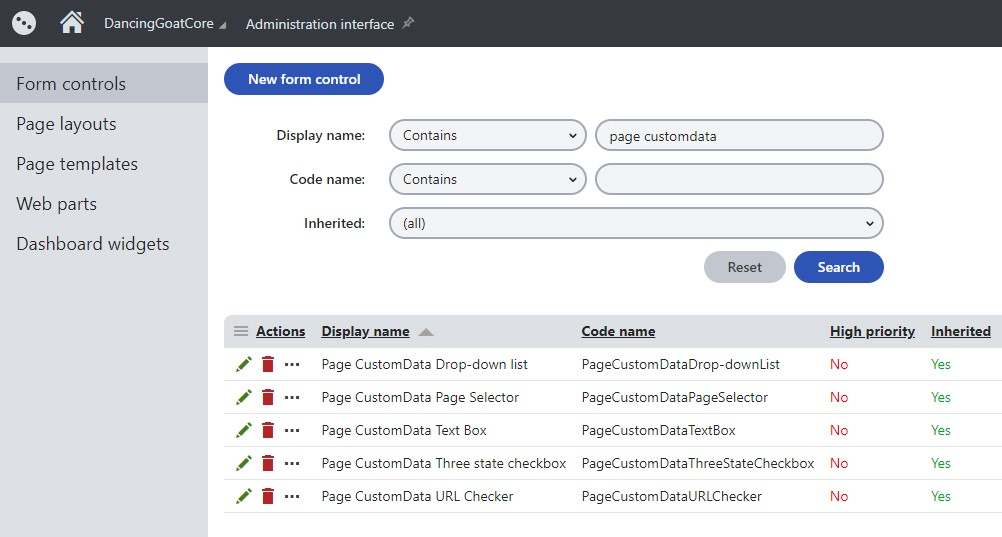
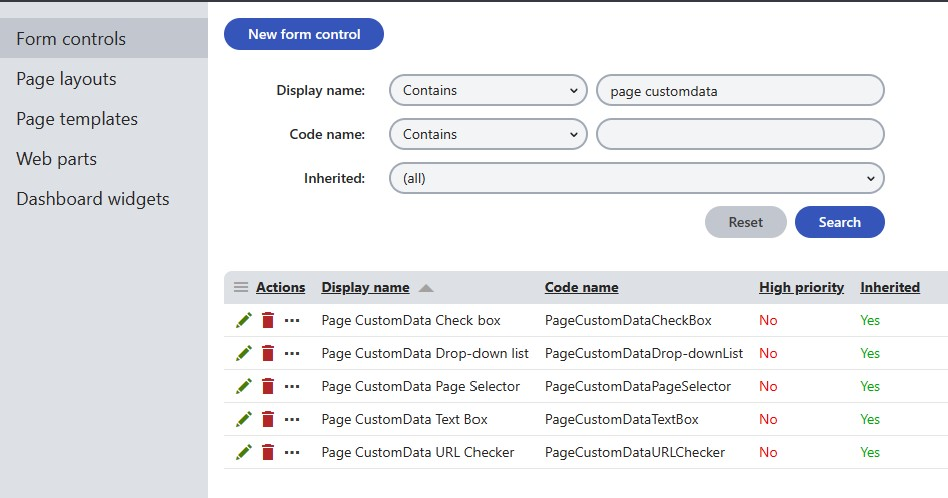
fix(lib): three state checkbox incompat w/ extender, add PageBuilderUtilities dep

diff --git a/tests/XperienceCommunity.PageNavigationRedirects.Tests/PageCustomDataRedirectResourceFilterTests.cs b/tests/XperienceCommunity.PageNavigationRedirects.Tests/PageCustomDataRedirectResourceFilterTests.cs
@@ -11,6 +11,7 @@ using Microsoft.AspNetCore.Mvc;
 using NSubstitute;
 using NUnit.Framework;
 using Tests.DocumentEngine;
+using XperienceCommunity.PageBuilderUtilities;
 
 namespace XperienceCommunity.PageNavigationRedirects.Tests
 {
@@ -37,9 +38,36 @@ namespace XperienceCommunity.PageNavigationRedirects.Tests
             var pageRetriever = Substitute.For<IPageRetriever>();
             var valuesRetriever = new PageNavigationRedirectsValuesRetriever(options);
 
-            var accessor = fixture.CreateHttpContextAccessWithPageBuilder(true);
+            var context = Substitute.For<IPageBuilderContext>();
+            context.IsEditMode.Returns(true);
 
-            var sut = new PageCustomDataRedirectResourceFilter(accessor, contextRetriever, urlRetriever, pageRetriever, valuesRetriever, options);
+            var sut = new PageCustomDataRedirectResourceFilter(context, contextRetriever, urlRetriever, pageRetriever, valuesRetriever, options);
+
+            var (executing, executed) = fixture.CreateFilterContexts();
+
+            await sut.OnResourceExecutionAsync(executing, () => executed);
+
+            executing.Result.Should().BeNull();
+        }
+
+        [Test]
+        public async Task No_Result_Will_Be_Set_When_In_PageBuilder_Preview_Mode_And_Preview_Redirection_Is_Enabled()
+        {
+            var fixture = new Fixture();
+
+            var options = fixture.CreateOptions();
+
+            var contextRetriever = Substitute.For<IPageDataContextRetriever>();
+            var urlRetriever = Substitute.For<IPageUrlRetriever>();
+            var pageRetriever = Substitute.For<IPageRetriever>();
+            var valuesRetriever = new PageNavigationRedirectsValuesRetriever(options);
+
+            var context = Substitute.For<IPageBuilderContext>();
+            context.IsEditMode.Returns(false);
+            context.IsLivePreviewMode.Returns(true);
+            options.Value.RedirectInLivePreviewMode = true;
+
+            var sut = new PageCustomDataRedirectResourceFilter(context, contextRetriever, urlRetriever, pageRetriever, valuesRetriever, options);
 
             var (executing, executed) = fixture.CreateFilterContexts();
 
@@ -60,13 +88,14 @@ namespace XperienceCommunity.PageNavigationRedirects.Tests
             var pageRetriever = Substitute.For<IPageRetriever>();
             var valuesRetriever = new PageNavigationRedirectsValuesRetriever(options);
 
-            var accessor = fixture.CreateHttpContextAccessWithPageBuilder(false);
+            var context = Substitute.For<IPageBuilderContext>();
+            context.IsEditMode.Returns(false);
 
             contextRetriever
                 .TryRetrieve(out Arg.Any<IPageDataContext<TreeNode>>())
                 .Returns(false);
 
-            var sut = new PageCustomDataRedirectResourceFilter(accessor, contextRetriever, urlRetriever, pageRetriever, valuesRetriever, options);
+            var sut = new PageCustomDataRedirectResourceFilter(context, contextRetriever, urlRetriever, pageRetriever, valuesRetriever, options);
 
             var (executing, executed) = fixture.CreateFilterContexts();
 
@@ -87,7 +116,8 @@ namespace XperienceCommunity.PageNavigationRedirects.Tests
             var pageRetriever = Substitute.For<IPageRetriever>();
             var valuesRetriever = new PageNavigationRedirectsValuesRetriever(options);
 
-            var accessor = fixture.CreateHttpContextAccessWithPageBuilder(false);
+            var context = Substitute.For<IPageBuilderContext>();
+            context.IsEditMode.Returns(false);
 
             var page = TreeNode.New<TreeNode>().With(p => p.SetPageDatasourceValue(options.Value.RedirectionTypeFieldName, PageRedirectionType.None, options.Value));
 
@@ -102,7 +132,7 @@ namespace XperienceCommunity.PageNavigationRedirects.Tests
                     return true;
                 });
 
-            var sut = new PageCustomDataRedirectResourceFilter(accessor, contextRetriever, urlRetriever, pageRetriever, valuesRetriever, options);
+            var sut = new PageCustomDataRedirectResourceFilter(context, contextRetriever, urlRetriever, pageRetriever, valuesRetriever, options);
 
             var (executing, executed) = fixture.CreateFilterContexts();
 
@@ -124,7 +154,8 @@ namespace XperienceCommunity.PageNavigationRedirects.Tests
             var pageRetriever = Substitute.For<IPageRetriever>();
             var valuesRetriever = new PageNavigationRedirectsValuesRetriever(options);
 
-            var accessor = fixture.CreateHttpContextAccessWithPageBuilder(false);
+            var context = Substitute.For<IPageBuilderContext>();
+            context.IsEditMode.Returns(false);
 
             string redirectUrl = fixture.Create<string>();
 
@@ -132,7 +163,7 @@ namespace XperienceCommunity.PageNavigationRedirects.Tests
             {
                 p.SetPageDatasourceValue(options.Value.RedirectionTypeFieldName, PageRedirectionType.External, options.Value);
                 p.SetPageDatasourceValue(options.Value.ExternalRedirectURLFieldName, redirectUrl, options.Value);
-                p.SetPageDatasourceValue(options.Value.PageUsePermanentRedirectsFieldName, 1, options.Value);
+                p.SetPageDatasourceValue(options.Value.PageUsePermanentRedirectsFieldName, true, options.Value);
             });
 
             var dataContext = Substitute.For<IPageDataContext<TreeNode>>();
@@ -146,7 +177,7 @@ namespace XperienceCommunity.PageNavigationRedirects.Tests
                     return true;
                 });
 
-            var sut = new PageCustomDataRedirectResourceFilter(accessor, contextRetriever, urlRetriever, pageRetriever, valuesRetriever, options);
+            var sut = new PageCustomDataRedirectResourceFilter(context, contextRetriever, urlRetriever, pageRetriever, valuesRetriever, options);
 
             var (executing, executed) = fixture.CreateFilterContexts();
 
@@ -173,7 +204,8 @@ namespace XperienceCommunity.PageNavigationRedirects.Tests
             var pageRetriever = Substitute.For<IPageRetriever>();
             var valuesRetriever = new PageNavigationRedirectsValuesRetriever(options);
 
-            var accessor = fixture.CreateHttpContextAccessWithPageBuilder(false);
+            var context = Substitute.For<IPageBuilderContext>();
+            context.IsEditMode.Returns(false);
 
             var nodeGUID = fixture.Create<Guid>();
 
@@ -211,7 +243,7 @@ namespace XperienceCommunity.PageNavigationRedirects.Tests
                 .Retrieve(linkedPage)
                 .Returns(new PageUrl { RelativePath = redirectUrl });
 
-            var sut = new PageCustomDataRedirectResourceFilter(accessor, contextRetriever, urlRetriever, pageRetriever, valuesRetriever, options);
+            var sut = new PageCustomDataRedirectResourceFilter(context, contextRetriever, urlRetriever, pageRetriever, valuesRetriever, options);
 
             var (executing, executed) = fixture.CreateFilterContexts();
 
@@ -238,7 +270,8 @@ namespace XperienceCommunity.PageNavigationRedirects.Tests
             var pageRetriever = Substitute.For<IPageRetriever>();
             var valuesRetriever = new PageNavigationRedirectsValuesRetriever(options);
 
-            var accessor = fixture.CreateHttpContextAccessWithPageBuilder(false);
+            var context = Substitute.For<IPageBuilderContext>();
+            context.IsEditMode.Returns(false);
 
             var nodeGUID = fixture.Create<Guid>();
             string className = fixture.Create<string>();
@@ -278,7 +311,7 @@ namespace XperienceCommunity.PageNavigationRedirects.Tests
                 .Retrieve(linkedPage)
                 .Returns(new PageUrl { RelativePath = redirectUrl });
 
-            var sut = new PageCustomDataRedirectResourceFilter(accessor, contextRetriever, urlRetriever, pageRetriever, valuesRetriever, options);
+            var sut = new PageCustomDataRedirectResourceFilter(context, contextRetriever, urlRetriever, pageRetriever, valuesRetriever, options);
 
             var (executing, executed) = fixture.CreateFilterContexts();
 

diff --git a/src/XperienceCommunity.PageNavigationRedirects/PageCustomDataRedirectResourceFilter.cs b/src/XperienceCommunity.PageNavigationRedirects/PageCustomDataRedirectResourceFilter.cs
@@ -6,12 +6,10 @@ using System.Threading.Tasks;
 using CMS.DocumentEngine;
 using CMS.Helpers;
 using Kentico.Content.Web.Mvc;
-using Kentico.PageBuilder.Web.Mvc;
-using Kentico.Web.Mvc;
-using Microsoft.AspNetCore.Http;
 using Microsoft.AspNetCore.Mvc;
 using Microsoft.AspNetCore.Mvc.Filters;
 using Microsoft.Extensions.Options;
+using XperienceCommunity.PageBuilderUtilities;
 
 namespace XperienceCommunity.PageNavigationRedirects
 {
@@ -20,7 +18,7 @@ namespace XperienceCommunity.PageNavigationRedirects
     /// </summary>
     public class PageCustomDataRedirectResourceFilter : IAsyncResourceFilter
     {
-        private readonly IHttpContextAccessor accessor;
+        private readonly IPageBuilderContext context;
         private readonly IPageDataContextRetriever contextRetriever;
         private readonly IPageUrlRetriever urlRetriever;
         private readonly IPageRetriever pageRetriever;
@@ -28,14 +26,14 @@ namespace XperienceCommunity.PageNavigationRedirects
         private readonly PageNavigationRedirectOptions options;
 
         public PageCustomDataRedirectResourceFilter(
-            IHttpContextAccessor accessor,
+            IPageBuilderContext context,
             IPageDataContextRetriever contextRetriever,
             IPageUrlRetriever urlRetriever,
             IPageRetriever pageRetriever,
             PageNavigationRedirectsValuesRetriever valuesRetriever,
             IOptions<PageNavigationRedirectOptions> options)
         {
-            this.accessor = accessor;
+            this.context = context;
             this.contextRetriever = contextRetriever;
             this.urlRetriever = urlRetriever;
             this.pageRetriever = pageRetriever;
@@ -59,7 +57,12 @@ namespace XperienceCommunity.PageNavigationRedirects
 
         private async Task<IActionResult?> HandleRedirectionInternal(CancellationToken token)
         {
-            if (accessor.HttpContext.Kentico().PageBuilder().EditMode)
+            if (context.IsEditMode)
+            {
+                return null;
+            }
+
+            if (options.RedirectInLivePreviewMode && context.IsLivePreviewMode)
             {
                 return null;
             }

diff --git a/tests/XperienceCommunity.PageNavigationRedirects.Tests/FixtureExtensions.cs b/tests/XperienceCommunity.PageNavigationRedirects.Tests/FixtureExtensions.cs
@@ -17,19 +17,17 @@ namespace XperienceCommunity.PageNavigationRedirects.Tests
 {
     public static class FixtureExtensions
     {
-        public static IOptions<PageNavigationRedirectOptions> CreateOptions(this Fixture fixture)
-        {
-            return Options.Create(new PageNavigationRedirectOptions
+        public static IOptions<PageNavigationRedirectOptions> CreateOptions(this Fixture fixture) =>
+            Options.Create(new PageNavigationRedirectOptions
             {
                 ExternalRedirectURLFieldName = fixture.Create<string>(),
                 FirstChildClassNameFieldName = fixture.Create<string>(),
                 InternalRedirectNodeGUIDFieldName = fixture.Create<string>(),
                 RedirectionTypeFieldName = fixture.Create<string>(),
-                UsePermanentRedirect = fixture.Create<bool>()
+                UsePermanentRedirect = fixture.Create<bool>(),
             });
-        }
 
-        public static (ResourceExecutingContext, Task<ResourceExecutedContext>) CreateFilterContexts(this Fixture fixture)
+        public static (ResourceExecutingContext, Task<ResourceExecutedContext>) CreateFilterContexts(this Fixture _)
         {
             var actionContext = new ActionContext
             {
@@ -59,7 +57,7 @@ namespace XperienceCommunity.PageNavigationRedirects.Tests
             }
         }
 
-        public static IHttpContextAccessor CreateHttpContextAccessWithPageBuilder(this Fixture fixture, bool isPageBuilderEnabled)
+        public static IHttpContextAccessor CreateHttpContextAccessWithPageBuilder(this Fixture _, bool isPageBuilderEnabled)
         {
             var pageBuilderFeature = Substitute.For<IPageBuilderFeature>();
             pageBuilderFeature.EditMode.Returns(isPageBuilderEnabled);

diff --git a/src/XperienceCommunity.PageNavigationRedirects/ServiceCollectionPageNavigationRedirectExtensions.cs b/src/XperienceCommunity.PageNavigationRedirects/ServiceCollectionPageNavigationRedirectExtensions.cs
@@ -14,7 +14,8 @@ namespace Microsoft.Extensions.DependencyInjection
         public static IServiceCollection AddPageNavigationRedirects(this IServiceCollection services, Action<PageNavigationRedirectOptions> configureOptions) =>
             services
                 .AddPageNavigationRedirects()
-                .Configure<PageNavigationRedirectOptions>(configureOptions);
+                .Configure(configureOptions)
+                .AddPageBuilderContext();
 
         /// <summary>
         /// Adds Page Navigation Redirects functionality
@@ -24,10 +25,7 @@ namespace Microsoft.Extensions.DependencyInjection
         public static IServiceCollection AddPageNavigationRedirects(this IServiceCollection services) =>
             services
                 .AddTransient<PageNavigationRedirectsValuesRetriever>()
-                .AddControllersWithViews(options =>
-                {
-                    options.Filters.Add(typeof(PageCustomDataRedirectResourceFilter));
-                })
+                .AddControllersWithViews(options => options.Filters.Add(typeof(PageCustomDataRedirectResourceFilter)))
                 .Services
                 .AddOptions<PageNavigationRedirectOptions>()
                 .Services;

diff --git a/src/XperienceCommunity.PageNavigationRedirects/PageNavigationRedirectsValuesRetriever.cs b/src/XperienceCommunity.PageNavigationRedirects/PageNavigationRedirectsValuesRetriever.cs
@@ -9,10 +9,8 @@ namespace XperienceCommunity.PageNavigationRedirects
     {
         private readonly PageNavigationRedirectOptions options;
 
-        public PageNavigationRedirectsValuesRetriever(IOptions<PageNavigationRedirectOptions> options)
-        {
+        public PageNavigationRedirectsValuesRetriever(IOptions<PageNavigationRedirectOptions> options) =>
             this.options = options.Value ?? throw new ArgumentNullException(nameof(options.Value));
-        }
 
         public PageRedirectionType RedirectionType(TreeNode page)
         {
@@ -88,14 +86,7 @@ namespace XperienceCommunity.PageNavigationRedirects
                 return options.UsePermanentRedirect;
             }
 
-            int value = ValidationHelper.GetInteger(customDataValue, -1);
-
-            return value switch
-            {
-                0 => false,
-                1 => true,
-                _ or -1 => options.UsePermanentRedirect,
-            };
+            return ValidationHelper.GetBoolean(customDataValue, options.UsePermanentRedirect);
         }
 
         private ContainerCustomData GetDatasource(TreeNode page) =>

diff --git a/tests/XperienceCommunity.PageNavigationRedirects.Tests/PageNavigationRedirectValuesRetrieverTests.cs b/tests/XperienceCommunity.PageNavigationRedirects.Tests/PageNavigationRedirectValuesRetrieverTests.cs
@@ -243,11 +243,11 @@ namespace XperienceCommunity.PageNavigationRedirects.Tests
             usePermanentRedirects.Should().Be(options.Value.UsePermanentRedirect);
         }
 
-        [TestCase(-1, true, true)]
-        [TestCase(-1, false, false)]
-        [TestCase(0, true, false)]
-        [TestCase(1, false, true)]
-        public void UsePermanentRedirects_Will_Return_Custom_Value_When_Set(int value, bool defaultValue, bool expected)
+        [TestCase(true, true, true)]
+        [TestCase(false, false, false)]
+        [TestCase(false, true, false)]
+        [TestCase(true, false, true)]
+        public void UsePermanentRedirects_Will_Return_Custom_Value_When_Set(bool value, bool defaultValue, bool expected)
         {
             var fixture = new Fixture();
 

diff --git a/src/XperienceCommunity.PageNavigationRedirects/PageNavigationRedirectOptions.cs b/src/XperienceCommunity.PageNavigationRedirects/PageNavigationRedirectOptions.cs
@@ -1,4 +1,5 @@
 using CMS.DocumentEngine;
+using XperienceCommunity.PageBuilderUtilities;
 
 namespace XperienceCommunity.PageNavigationRedirects
 {
@@ -43,5 +44,10 @@ namespace XperienceCommunity.PageNavigationRedirects
         /// </summary>
         /// <value></value>
         public bool UseDocumentCustomData { get; set; } = true;
+        /// <summary>
+        /// If true, then visiting the Page in Page Builder <see cref="PageBuilderMode.LivePreview"/> will result in an HTTP redirect.
+        /// Defaults to false.
+        /// </summary>
+        public bool RedirectInLivePreviewMode { get; set; } = false;
     }
 }

diff --git a/README.md b/README.md
@@ -12,6 +12,8 @@ This package is compatible with Kentico Xperience 13 ASP.NET Core applications.
 
 This package should be used in combination with the [XperienceCommunity.PageCustomDataControlExtender](https://github.com/wiredviews/xperience-page-custom-data-control-extender)
 
+This package has a depenency on [XperienceCommunity.PageBuilderUtilities](https://github.com/wiredviews/xperience-page-builder-utilities), which will be installed and configured automatically.
+
 ## How to Use?
 
 1.  Add the [XperienceCommunity.PageCustomDataControlExtender](https://github.com/wiredviews/xperience-page-custom-data-control-extender) NuGet package to the CMSApp administration application
@@ -52,13 +54,13 @@ This package should be used in combination with the [XperienceCommunity.PageCust
 
        ![Custom URL Checker control](./images/03a-text-box-form-control.jpg)
 
-    1. (optional) The "Three state checkbox" Form Control
+    1. (optional) The "Check box" Form Control
 
        - Used for setting the redirect status code (301 vs 302) per-Page
-       - Use Control for: `Integer number`
+       - Use Control for: `Boolean (yes/no)`
        - Show control in: `Page types`
 
-       ![Custom Check box control](./images/03b-three-state-check-box-form-control.jpg)
+       ![Custom Check box control](./images/03b-check-box-form-control.jpg)
 
 1.  Install the NuGet package in your Kentico Xperience live site (Content Delivery) ASP.NET Core project
 
@@ -120,9 +122,9 @@ This package should be used in combination with the [XperienceCommunity.PageCust
     1.  Permanent Redirect (Optional)
 
         - Field name: `PageUsePermanentRedirects`
-        - Data type: `Integer number`
+        - Data type: `Boolean (Yes/No))`
         - Field caption: `Use Permanent (301) Redirects?`
-        - Form control: `Page CustomData Three state check box`
+        - Form control: `Page CustomData Check box`
         - Visibility condition: `{% PageRedirectionType == "External" || PageRedirectionType == "Internal" || PageRedirectionType == "FirstChild" %}`
         - Depends on another field: `true`
 
@@ -163,6 +165,7 @@ This package should be used in combination with the [XperienceCommunity.PageCust
           options.RedirectionTypeFieldName = "RedirectionType";
           options.UsePermanentRedirect = true;
           options.UseDocumentCustomData = false;
+          options.RedirectInLivePreviewMode = true;
 
           // ...
        });
